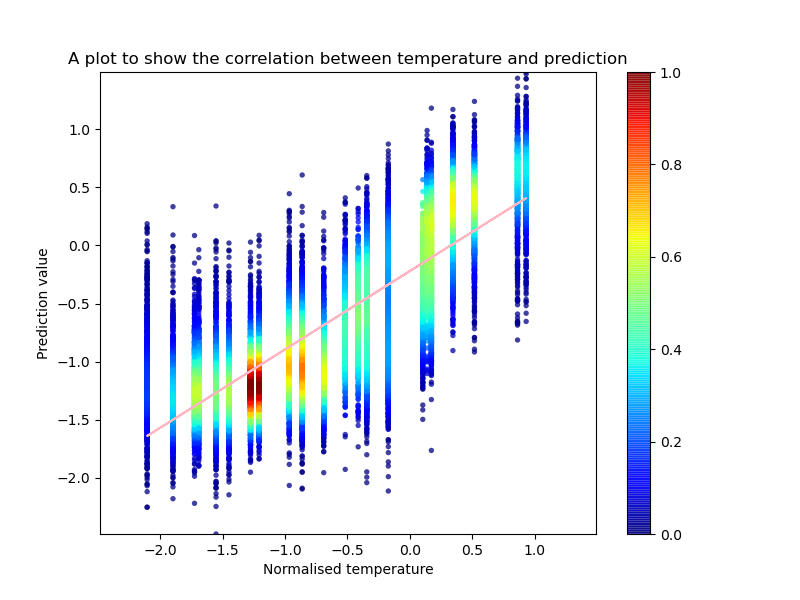
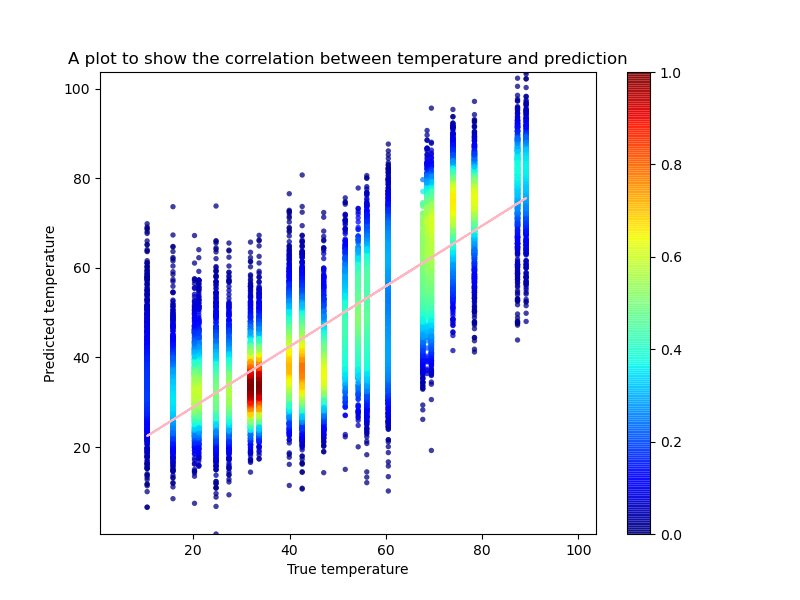
Updated axes values for 003 graphs.

diff --git a/scripts/003/003_plot_correlation.py b/scripts/003/003_plot_correlation.py
@@ -40,26 +40,6 @@ df = pd.read_csv(sys.argv[1], sep="\t")
 x = df['temperature']
 y = df['prediction']
 
-densities = densCols(x, y, nbin = 128)
-plt.figure(figsize=(8,6))
-plt.title('A plot to show the correlation between temperature and prediction')
-
-maximum = max([max(x), max(y)])
-minimum = min([min(x), min(y)])
-
-plt.ylim(minimum, maximum)
-plt.xlim(minimum, maximum) 
-plt.xlabel('Normalised temperature')
-plt.ylabel('Prediction value')
-sc = plt.scatter(x, y, c=densities, s=15, edgecolors='none', alpha=0.75, cmap=cm.jet)
-plt.colorbar(sc)
-plt.show()
-
-m, b = numpy.polyfit(x, y, 1)
-plt.plot(x, m*x+b, color='lightpink')
-
-plt.savefig(sys.argv[2])
-
 # Printing Pearson's correlation
 print('Pearson\'s correlation: ')
 print(df.corr())
@@ -87,3 +67,28 @@ for threshold in thresholds:
     print(calculate_MCC(x, y, real_threshold=threshold, 
           prediction_threshold=threshold))
     print()
+
+if(Z_SCORE_NORM):
+    for i in range(len(x)):
+        x[i] = convert_z_score_to_label(x[i], 65, std)
+        y[i] = convert_z_score_to_label(y[i], 65, std)
+
+densities = densCols(x, y, nbin = 128)
+plt.figure(figsize=(8,6))
+plt.title('A plot to show the correlation between temperature and prediction')
+
+maximum = max([max(x), max(y)])
+minimum = min([min(x), min(y)])
+
+plt.ylim(minimum, maximum)
+plt.xlim(minimum, maximum)
+plt.xlabel('True temperature')
+plt.ylabel('Predicted temperature')
+sc = plt.scatter(x, y, c=densities, s=15, edgecolors='none', alpha=0.75, cmap=cm.jet)
+plt.colorbar(sc)
+plt.show()
+
+m, b = numpy.polyfit(x, y, 1)
+plt.plot(x, m*x+b, color='lightpink')
+
+plt.savefig(sys.argv[2])
